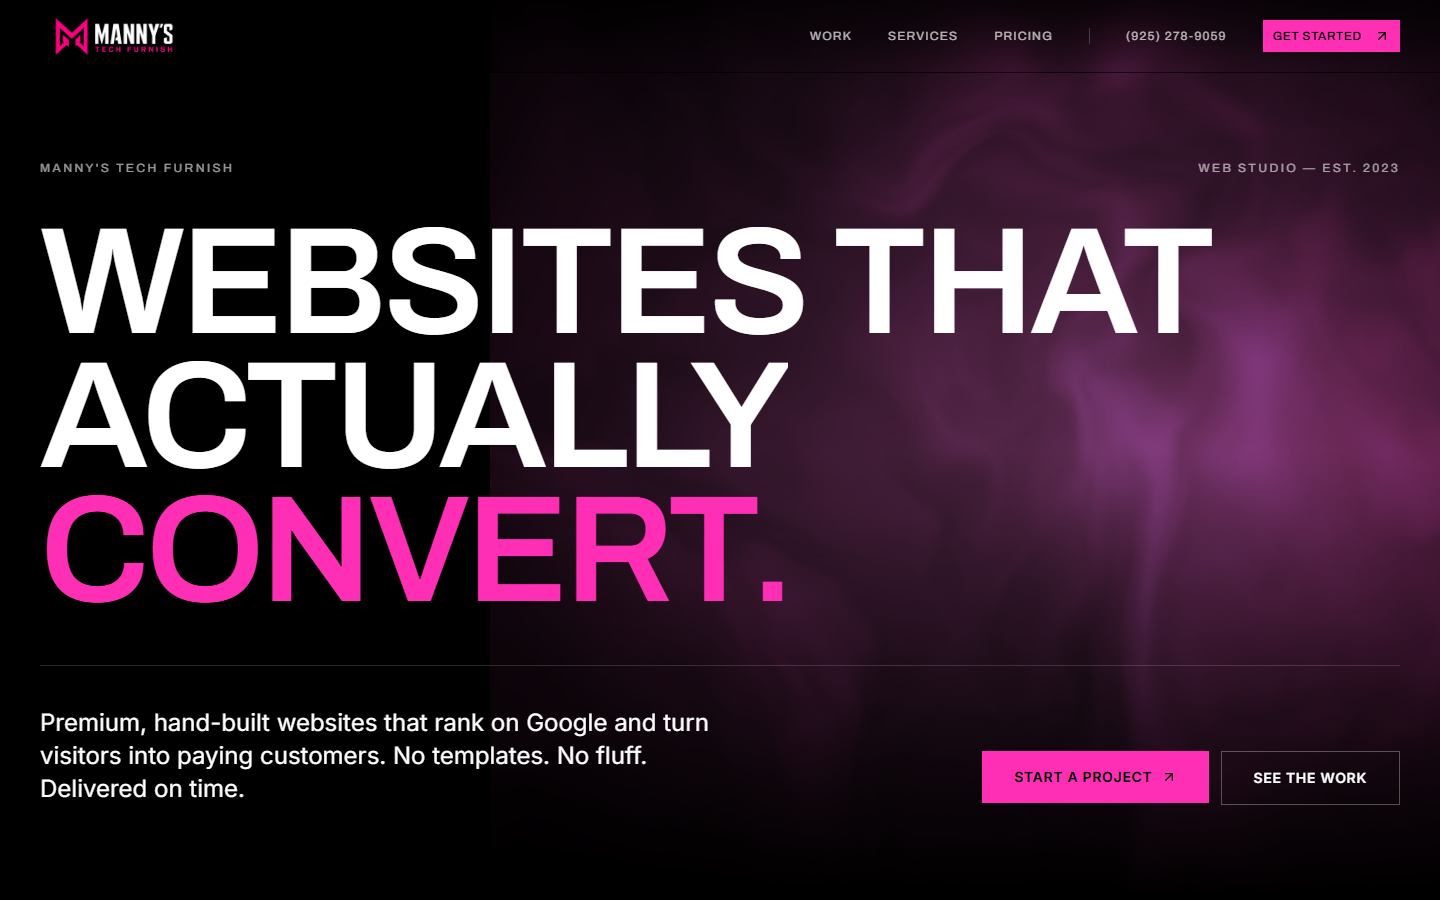
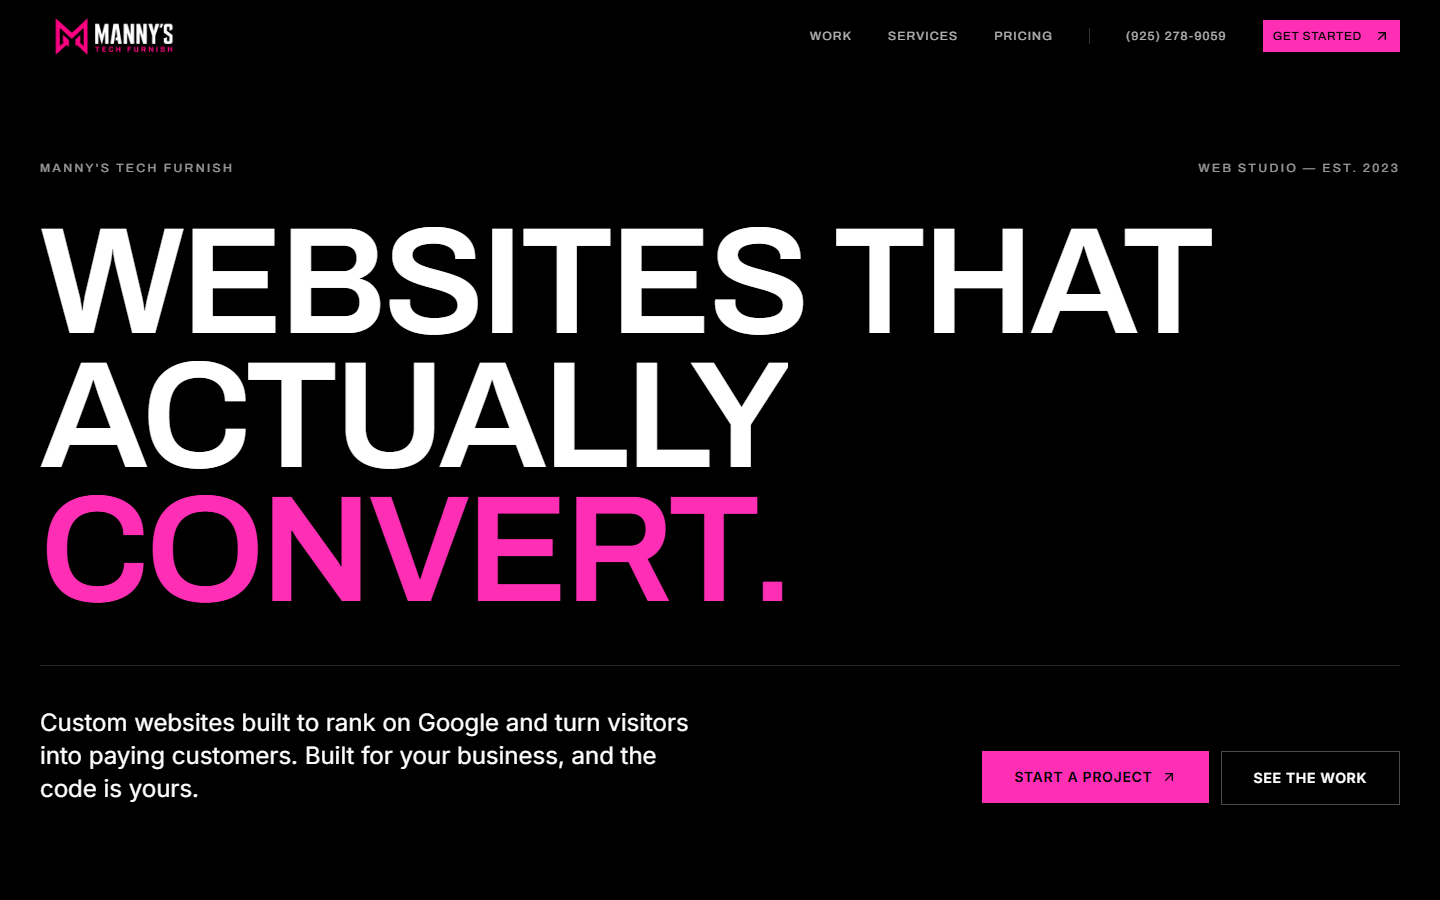
Show the admin and invoice flows in the README
Adds admin client list, inbox and invoice screenshots (seeded demo data),
a short tour of the most interesting code, and updates the stack and
security notes to match the current implementation.

diff --git a/README.md b/README.md
@@ -2,40 +2,61 @@
 
 The production site and back office for my web development studio: **[mannystechfurnish.com](https://mannystechfurnish.com)**.
 
-It does three jobs. It markets the studio, it captures leads through a bot-protected contact form, and it gets clients paid up through per-client Stripe checkout links that I create from a private admin dashboard.
-
-![Home page at 1440px](docs/screenshots/home-desktop.png)
-
-<p align="center"><img src="docs/screenshots/home-mobile.png" alt="Home page at 390px" width="260"></p>
+It does three jobs. It markets the studio, it captures leads through a bot-protected contact form, and it gets clients paid through per-client Stripe checkout links that I create from a private admin dashboard.
 
 [![CI](https://github.com/spoutyfc/mannystechfurnish/actions/workflows/ci.yml/badge.svg)](https://github.com/spoutyfc/mannystechfurnish/actions/workflows/ci.yml)
+
+![Admin client list with plan, payment status and per-client pay-link actions, plus totals for clients, paid, pending and collected](docs/screenshots/admin-clients.png)
+
+| Client invoice page (`/pay/[slug]`) | Admin inbox with an inquiry expanded |
+|---|---|
+| ![Invoice page for a demo client showing the managed plan, its price and a Pay securely button](docs/screenshots/pay-invoice.png) | ![Admin inbox listing three contact submissions, one marked new and one expanded with reply, mark-unread and delete actions](docs/screenshots/admin-inbox.png) |
+
+<sub>The admin and invoice screenshots use seeded demo records (example.com addresses), not real clients. They were taken from a production build running against a throwaway local Postgres.</sub>
+
+<details>
+<summary>Marketing home page (desktop and 390px mobile)</summary>
+
+![Home page hero reading "Websites that actually convert" with Start a project and See the work buttons](docs/screenshots/home-desktop.png)
+
+<p align="center"><img src="docs/screenshots/home-mobile.png" alt="Home page hero on a 390px-wide phone, with the headline stacked above the call-to-action buttons" width="260"></p>
+</details>
+
+## What's worth looking at
+
+| If you have 2 minutes | Read |
+|---|---|
+| How a payment can never be downgraded, even under concurrent webhooks | [`lib/payment-status.ts`](lib/payment-status.ts), [`app/api/webhooks/stripe/route.ts`](app/api/webhooks/stripe/route.ts) |
+| Why the browser can never choose the price | [`lib/checkout.ts`](lib/checkout.ts), [`app/actions/payment.ts`](app/actions/payment.ts) |
+| A signed session cookie that works in Edge middleware and Node | [`lib/admin-auth.ts`](lib/admin-auth.ts), [`middleware.ts`](middleware.ts) |
+| A rate limiter that degrades instead of failing open | [`lib/rate-limit.ts`](lib/rate-limit.ts), [`lib/request.ts`](lib/request.ts) |
 
 ## Stack
 
 | Layer | Choice |
 |---|---|
 | Framework | Next.js 16 (App Router, server actions, route handlers), React 19, TypeScript |
-| Data | Neon Postgres with Drizzle ORM (`lib/db/schema.ts`) |
+| Data | Postgres (Neon in production) with Drizzle ORM over `pg` (`lib/db/schema.ts`) |
 | Auth | HMAC-signed admin session cookie (`lib/admin-auth.ts`) and bcrypt password hashes |
 | Payments | Stripe Checkout Sessions for client invoices, and Stripe Payment Links for the public pricing table |
 | Email | Resend, with escaped HTML templates (`lib/email.ts`) |
-| Abuse controls | Cloudflare Turnstile, Upstash Redis sliding-window rate limits, and a honeypot field |
-| UI | Tailwind CSS v4, Framer Motion, GSAP, Lenis |
-| Quality | Vitest, ESLint 9 (next/core-web-vitals and typescript), `tsc --noEmit`, and GitHub Actions on Ubuntu |
+| Abuse controls | Cloudflare Turnstile, sliding-window rate limits (Upstash Redis, with an in-process fallback), and a honeypot field |
+| UI | Tailwind CSS v4, Framer Motion, Lenis, OGL (WebGL hero) |
+| Quality | Vitest, ESLint 9 (next/core-web-vitals and typescript, zero warnings allowed), `tsc --noEmit`, GitHub Actions on Ubuntu |
 | Runtime | Vercel in production. A multi-stage Docker image (Next standalone output, non-root) is also included |
 
 ## What it does
 
 **Public site**
-- `/` is the marketing page. It has the work, services, pricing (Stripe Payment Links), paid add-ons and an FAQ.
-- `/contact` is an inquiry form. The server validates the input, checks it with Turnstile and rate-limits it, then stores it in Postgres and emails both me and the sender.
+- `/` is the marketing page: work, services, pricing (Stripe Payment Links), paid add-ons and an FAQ.
+- `/contact` is an inquiry form. The server validates the input, checks Turnstile and the rate limit, stores it in Postgres and emails both me and the sender.
 - `/pay/[slug]` is a personal invoice page for one client. The price always comes from the plan stored on the server.
-- `/demo/booking` is a working demo of the booking add-on.
+- `/demo/booking` is a working front-end demo of the booking add-on.
 
-**Admin** (`/admin`, gated in middleware and on every handler)
-- An inbox of contact submissions, where each one can be marked new, read or resolved, or deleted.
+**Admin** (`/admin`, gated in middleware and again on every handler)
+- An inbox of contact submissions, each marked new, read or resolved, or deleted.
 - A composer that sends branded emails to a client through Resend.
-- `/admin/clients` lets me create a client on a plan, copy their pay link, mark a payment and see totals collected.
+- `/admin/clients` creates a client on a plan, copies their pay link, marks a payment and shows totals collected.
 - Password change, which re-verifies the current password.
 
 ## Architecture
@@ -44,8 +65,8 @@ It does three jobs. It markets the studio, it captures leads through a bot-prote
 flowchart LR
   V[Visitor] -->|POST /api/public/contact| C[Contact route]
   C --> T[Turnstile verify]
-  C --> R[Upstash rate limit]
-  C --> DB[(Neon Postgres)]
+  C --> R[Rate limit]
+  C --> DB[(Postgres)]
   C --> E[Resend]
 
   A[Admin] -->|signed cookie| MW[middleware.ts]
@@ -55,38 +76,44 @@ flowchart LR
   CL[Client] -->|/pay/slug| P[createClientCheckoutSession]
   P -->|price ids from lib/plans.ts| S[Stripe Checkout]
   S -->|signed webhook| W[/api/webhooks/stripe/]
-  W --> DB
+  W -->|one conditional UPDATE| DB
 ```
 
 ### Payment flow
 
-1. In the admin dashboard I create a client and pick a plan (`option1` or `option2`). The server then generates an unguessable slug.
+1. In the admin dashboard I create a client and pick a plan (`option1` or `option2`). The server generates an unguessable slug.
 2. The client opens `/pay/<slug>`. That page reads only the public fields it needs: name, company, plan and whether it is paid.
-3. **Pay** calls a server action. The action validates the slug, refuses if the invoice is already paid, and builds the Stripe line items from stored price ids with `lib/checkout.ts`. The browser never sends an amount.
-4. Stripe calls `/api/webhooks/stripe`. The route verifies the signature, then applies the event through `lib/payment-status.ts`. A paid client is never downgraded by a late "expired" or "failed" event, and only the session currently on record can mark a client failed. If the database write fails, the route returns 500 so that Stripe retries.
+3. **Pay** calls a server action. It validates the slug, refuses if the invoice is already paid, and builds the Stripe line items from stored price ids (`lib/checkout.ts`). The browser never sends an amount.
+4. Stripe calls `/api/webhooks/stripe`. The route verifies the signature, then applies the event:
+   - `checkout.session.completed` marks the client paid only when `payment_status` is `paid` (or `no_payment_required`). Delayed methods such as ACH arrive as `unpaid`, stay pending, and are settled by `checkout.session.async_payment_succeeded` or `async_payment_failed`.
+   - The "never downgrade a paid client" and "only the current session can fail it" rules are part of the `UPDATE ... WHERE` itself, so the check and the write are one atomic statement. A late or concurrent `expired` event cannot overwrite a `completed` row. The tests replay both commit orders of that race.
+   - If the database write fails, the route returns 500 so Stripe retries.
 
-### Data model (main tables)
+### Data model (tables the app uses)
 
 | Table | Purpose |
 |---|---|
 | `clients` | Invoice recipients: slug, contact details, plan, payment status, Stripe customer, session and subscription ids |
 | `contact_inquiries` | Contact form submissions with a status of `new`, `read` or `resolved` |
-| `admin_users` | Admin email and bcrypt hash. It is managed with raw parameterized SQL and is not in the Drizzle schema |
-| `user`, `session`, `account`, `verification` | Better Auth tables. Public inquiries are attached to a fixed system user |
+| `admin_users` | Admin email and bcrypt hash, managed with parameterized SQL (not in the Drizzle schema) |
+| `user` | Holds one fixed system row that public inquiries attach to |
+
+The schema file also describes older tables that exist in the production database but are not read by the app.
 
 ## Security notes
 
-- **Server-side validation.** Every public input and every admin mutation is parsed with zod (`lib/validation.ts`) before any database, Stripe or email call.
-- **Admin sessions.** The cookie holds `email.expiry.HMAC-SHA256` and is verified in constant time with Web Crypto, which works in both Edge middleware and Node. It is `httpOnly` and `secure`, and `SameSite=Lax` in production. If no secret is configured, verification throws instead of letting the request through.
+- **Server-side validation.** Every public input, the admin login and password change, and every admin mutation are parsed with zod (`lib/validation.ts`) before any database, Stripe or email call. Passwords are capped at 200 characters before bcrypt runs.
+- **Admin sessions.** The cookie holds `email.expiry.HMAC-SHA256` and is verified in constant time with Web Crypto, which works in both Edge middleware and Node. It is `httpOnly`, `secure` and `SameSite=Lax`. If no secret is configured, verification throws instead of letting the request through.
 - **Defense in depth.** Middleware guards `/admin/*`, and each admin route handler and server action checks the session again on its own.
 - **Bootstrap endpoint.** `/api/admin-setup` returns 404 unless `ADMIN_SETUP_SECRET` is set. It compares the secret in constant time and requires a password of at least 12 characters.
-- **Login hardening.** Admin login is rate-limited per IP, and bcrypt runs even for unknown emails so response timing does not reveal which accounts exist.
+- **Login throttling.** 8 attempts per 10 minutes per client. With Upstash configured the window is shared across instances. Without it, or if Redis errors, each server process enforces its own window, which is weaker on serverless but never unlimited. The client IP comes from Vercel's own headers on Vercel, or from `TRUSTED_PROXY_HOPS` entries of `x-forwarded-for` elsewhere. With neither, all clients share one bucket rather than trusting a header anyone can set.
+- **Account enumeration.** Unknown emails are compared against a real bcrypt hash at the same cost (12) as stored hashes, so both paths take about the same time.
 - **Queries.** All SQL goes through Drizzle or tagged `sql` templates, which are parameterized.
 - **Email.** Every value from the user is HTML-escaped before it goes into a template.
 
 ## Local setup
 
-Requirements: Node 20.9 or newer, pnpm 10 (`corepack enable`), and a Postgres database such as Neon.
+Requirements: Node 20.9 or newer, pnpm 10 (`corepack enable`), and a Postgres database.
 
 ```bash
 corepack enable
@@ -95,7 +122,7 @@ cp .env.example .env.local   # fill in values; names are documented in the file
 pnpm dev                     # http://localhost:3000
 ```
 
-The site runs without Turnstile and Upstash configured, because those checks are skipped when their keys are absent. Stripe, Resend and the database are only needed for the flows that use them.
+Turnstile and Upstash are optional: without keys the Turnstile check is skipped and rate limits run in-process. Stripe, Resend and the database are only needed for the flows that use them.
 
 To create the first admin, set `ADMIN_SETUP_SECRET` and send a POST to `/api/admin-setup` with the `x-setup-secret` header and an `{ "email", "password" }` body. Unset the secret afterwards.
 
@@ -103,28 +130,33 @@ To create the first admin, set `ADMIN_SETUP_SECRET` and send a POST to `/api/adm
 
 ```bash
 pnpm typecheck   # tsc --noEmit
-pnpm lint        # eslint .
-pnpm test        # vitest run
+pnpm lint        # eslint . --max-warnings 0
+pnpm test        # vitest run (95 tests in 9 files)
 pnpm build       # next build (standalone output)
 ```
 
 The tests (`lib/__tests__`, `app/__tests__`) cover:
-- validation boundaries
+- validation boundaries, including oversized and malformed login bodies
 - checkout pricing, including rejection of unknown plans
-- webhook status transitions and retry behaviour
-- forgery, expiry and missing-secret cases for the admin token
+- webhook transitions: delayed payments, stale sessions, retries, and the completed-versus-expired race
+- rate limiting without Redis and with Redis failing, and IP derivation that ignores spoofed headers
+- forgery, expiry and missing-secret cases for the admin token, and the cookie flags on login
 - unauthenticated calls to every admin route and server action
 
-CI (`.github/workflows/ci.yml`) runs all four checks on `ubuntu-latest`. It then builds the Docker image and smoke-tests the container's `/api/health` endpoint.
+CI (`.github/workflows/ci.yml`) runs all four checks on `ubuntu-latest`, then builds the Docker image and smoke-tests the container's `/api/health` endpoint.
 
 ## Docker
 
 ```bash
 docker build -t mannystechfurnish .
-docker run --env-file .env -p 3000:3000 mannystechfurnish
+docker run --env-file .env -e TRUSTED_PROXY_HOPS=1 -p 3000:3000 mannystechfurnish
 ```
 
-The build has three stages: `deps`, then `build`, then a slim runtime. The runtime stage runs as the unprivileged `node` user and has a `HEALTHCHECK` against `/api/health`. Secrets are injected at runtime, and only `NEXT_PUBLIC_*` values are build arguments.
+The build has three stages: `deps`, `build`, then a slim runtime that runs as the unprivileged `node` user with a `HEALTHCHECK` against `/api/health`. Secrets are injected at runtime, and only `NEXT_PUBLIC_*` values are build arguments. Set `TRUSTED_PROXY_HOPS` to the number of reverse proxies in front of the container.
+
+## How it was built
+
+The first version was scaffolded with [v0](https://v0.app) and shipped to production. Later work reviewed that code and reworked it in small commits: fixing a forgeable admin cookie, moving pricing to the server, validating all input, making webhook updates atomic, closing an open sign-up endpoint, and deleting the unused generated components and dependencies. `git log` shows each change with its reason.
 
 ## Project layout
 
@@ -132,7 +164,7 @@ The build has three stages: `deps`, then `build`, then a slim runtime. The runti
 app/                 routes, server actions (app/actions), API route handlers (app/api)
 components/site/     marketing page sections and motion primitives
 components/admin/    admin dashboard widgets
-lib/                 db, auth, Stripe, email, validation, pricing and status logic
+lib/                 db, auth, Stripe, email, validation, pricing, rate limiting and status logic
 scripts/             one-off Stripe Payment Link setup
 docs/screenshots/    images used in this README
 ```
